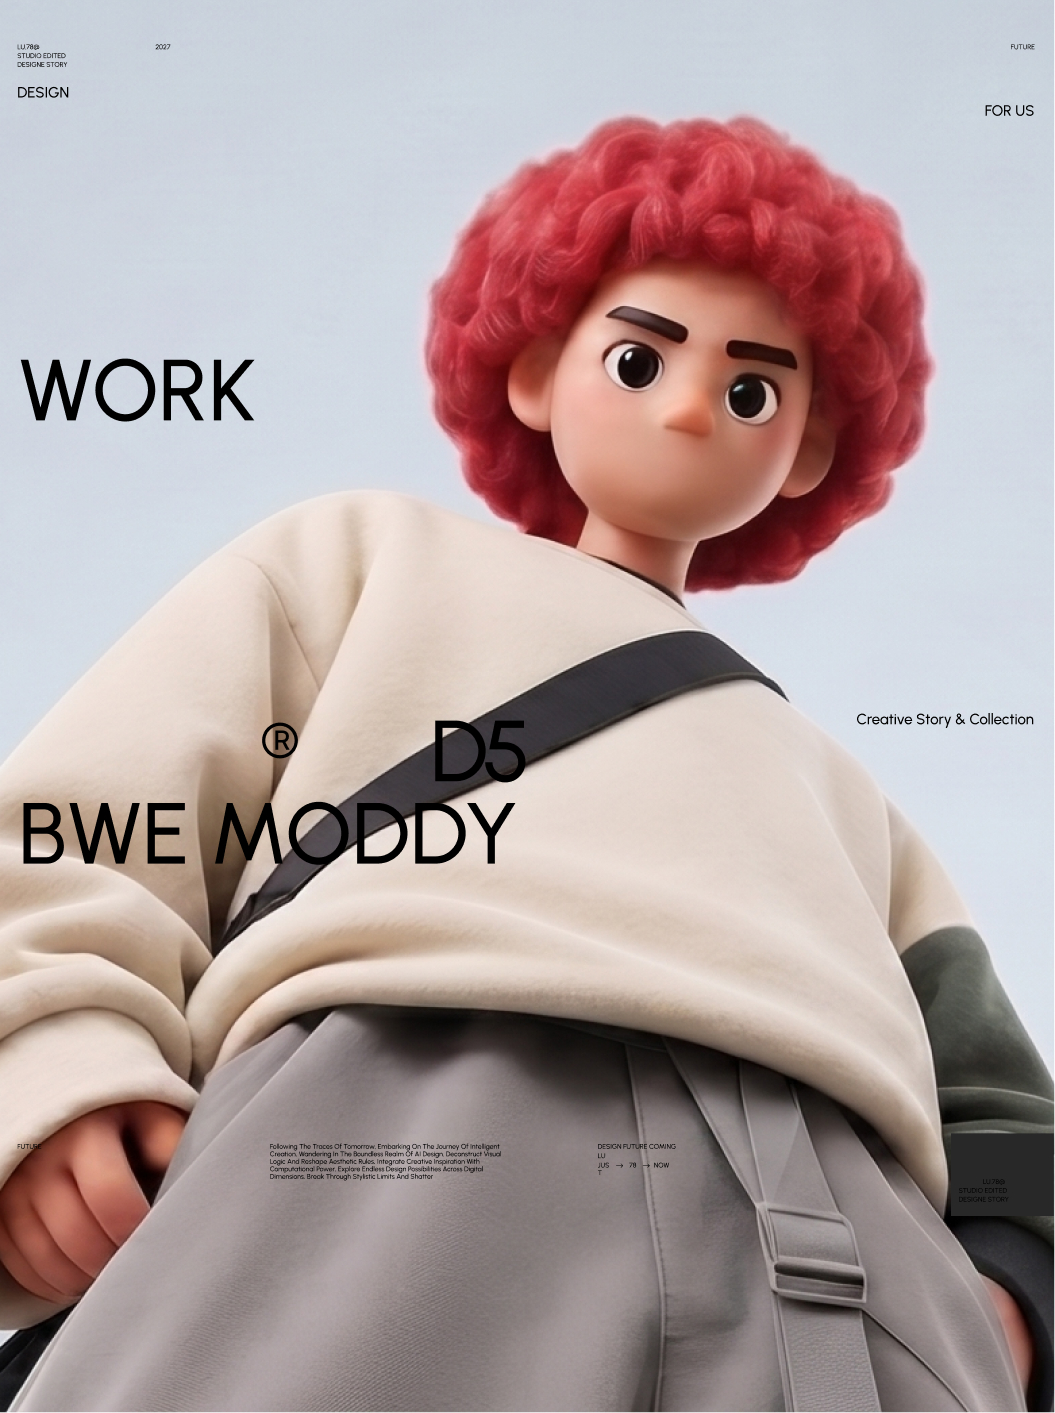
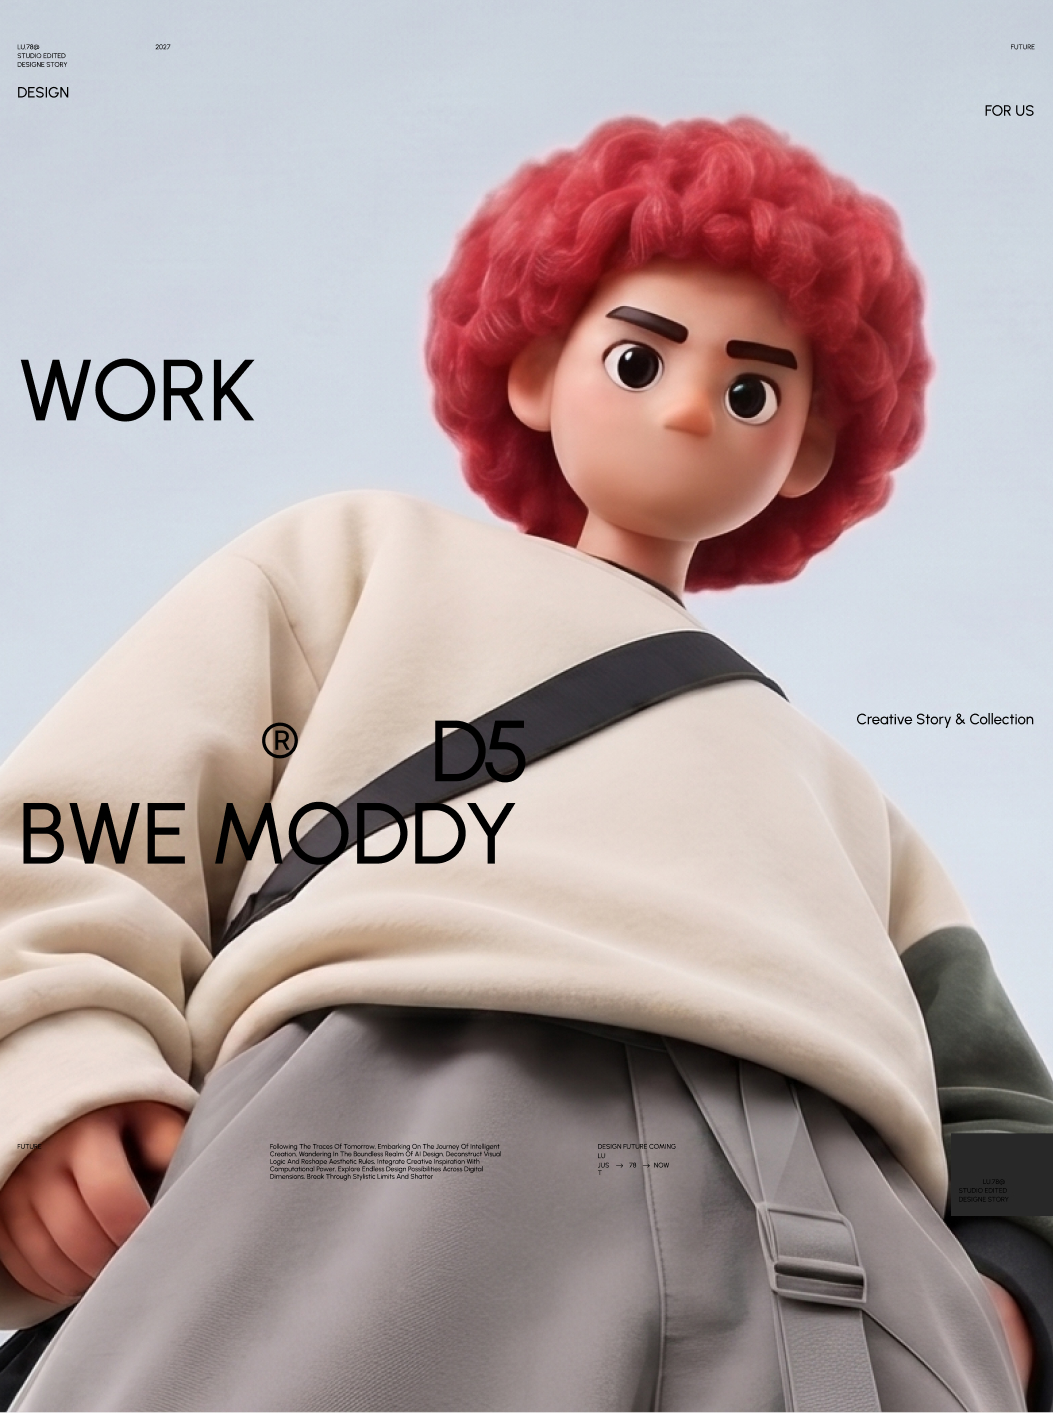
feat: replace scroll-cards with updated images v3

diff --git a/src/components/Landing/WorkForFuture.tsx b/src/components/Landing/WorkForFuture.tsx
@@ -5,7 +5,7 @@ import CardWallSection from './CardWallSection';
 const BASE = import.meta.env.BASE_URL ?? '/';
 const toAsset = (p: string) => `${BASE.replace(/\/$/, '')}${p}`;
 
-const SCROLL_CARD_VERSION = '20260605-1308';
+const SCROLL_CARD_VERSION = '20260605-1313';
 const CARD_IMAGES: string[][] = [
   [
     toAsset(`/assets/scroll-cards/scroll-01.webp?v=${SCROLL_CARD_VERSION}`),
